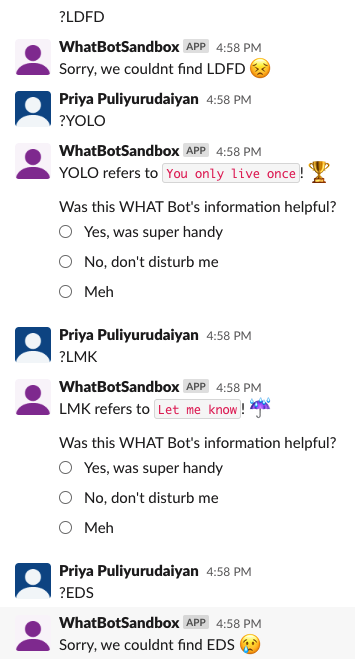
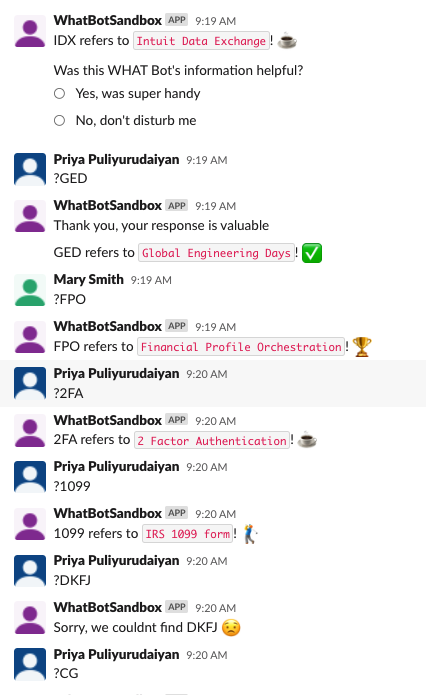
GED202204 update README, show feedback input for firsttime users only

Changed region(s): [[0.031, 0.0, 0.9606, 0.9836], [0.5887, 0.8346, 0.7127, 0.8644], [0.031, 0.2981, 0.093, 0.3577]]

diff --git a/messageBuilder.js b/messageBuilder.js
@@ -1,54 +1,48 @@
-const getFeedback = (text) => {
-    return {
-        "blocks": [
-            {
-                "type": "section",
-                "text": {
-                    "type": "mrkdwn",
-                    text
-                }
+const getFeedback = (text, isFirstTimeUser) => {
+  const response = {};
+  response.blocks = [
+    {
+      type: 'section',
+      text: {
+        type: 'mrkdwn',
+        text,
+      },
+    },
+  ];
+  if (isFirstTimeUser) {
+    response.blocks.push({
+      type: 'section',
+      text: {
+        type: 'mrkdwn',
+        text: "Was this WHAT Bot's information helpful?",
+      },
+      accessory: {
+        type: 'radio_buttons',
+        options: [
+          {
+            text: {
+              type: 'plain_text',
+              text: 'Yes, was super handy',
+              emoji: true,
             },
-            {
-                "type": "section",
-                "text": {
-                    "type": "mrkdwn",
-                    "text": "Was this WHAT Bot's information helpful?"
-                },
-                "accessory": {
-                    "type": "radio_buttons",
-                    "options": [
-                        {
-                            "text": {
-                                "type": "plain_text",
-                                "text": "Yes, was super handy",
-                                "emoji": true
-                            },
-                            "value": "value-0"
-                        },
-                        {
-                            "text": {
-                                "type": "plain_text",
-                                "text": "No, don't disturb me",
-                                "emoji": true
-                            },
-                            "value": "value-1"
-                        },
-                        {
-                            "text": {
-                                "type": "plain_text",
-                                "text": "Meh",
-                                "emoji": true
-                            },
-                            "value": "value-2"
-                        }
-                    ],
-                    "action_id": "feedback_option"
-                }
-            }
-        ]
-    }
-}
+            value: 'value-0',
+          },
+          {
+            text: {
+              type: 'plain_text',
+              text: "No, don't disturb me",
+              emoji: true,
+            },
+            value: 'value-1',
+          },
+        ],
+        action_id: 'feedback_option',
+      },
+    });
+  }
+  return response;
+};
 
 module.exports = {
-    getFeedback
-}
+  getFeedback,
+};

diff --git a/app.js b/app.js
@@ -1,8 +1,10 @@
 const { App } = require('@slack/bolt');
 require('dotenv').config();
-const acronyms = require('./reducedAcronyms.json');
+const acronyms = require('./acronyms.json');
 const { getFeedback } = require('./messageBuilder');
 var emoji = require('node-emoji');
+
+const userMap = {};
 
 // Initializes your app with your bot token and signing secret
 const app = new App({
@@ -19,7 +21,7 @@ app.message('hello', async ({ message, say }) => {
 
 // Listens to incoming messages that contain "?"
 app.message('?', async ({ message, say }) => {
-  const regex = /^\?[A-Z]+/;
+  const regex = /^\?[A-Z0-9]+/;
   if(!regex.test(message.text)) {
     return;
   }
@@ -32,7 +34,10 @@ app.message('?', async ({ message, say }) => {
   if(!obj) {
     await say(`Sorry, we couldnt find ${requestedAcronym} ${emoji.get(notFoundEmoji[Math.floor(Math.random() * notFoundEmoji.length)])}`);
   } else {
-    await say(getFeedback(`${requestedAcronym} refers to \`${obj.full}\`! ${emoji.get(foundEmoji[Math.floor(Math.random() * foundEmoji.length)])}`));
+    let isFirstTimeUser = !(userMap[message.user]);
+    userMap[message.user] = true;
+    const msg = `${requestedAcronym} refers to \`${obj.full}\`! ${emoji.get(foundEmoji[Math.floor(Math.random() * foundEmoji.length)])}`;
+    await say(getFeedback(msg, isFirstTimeUser));
   }
 });
 
